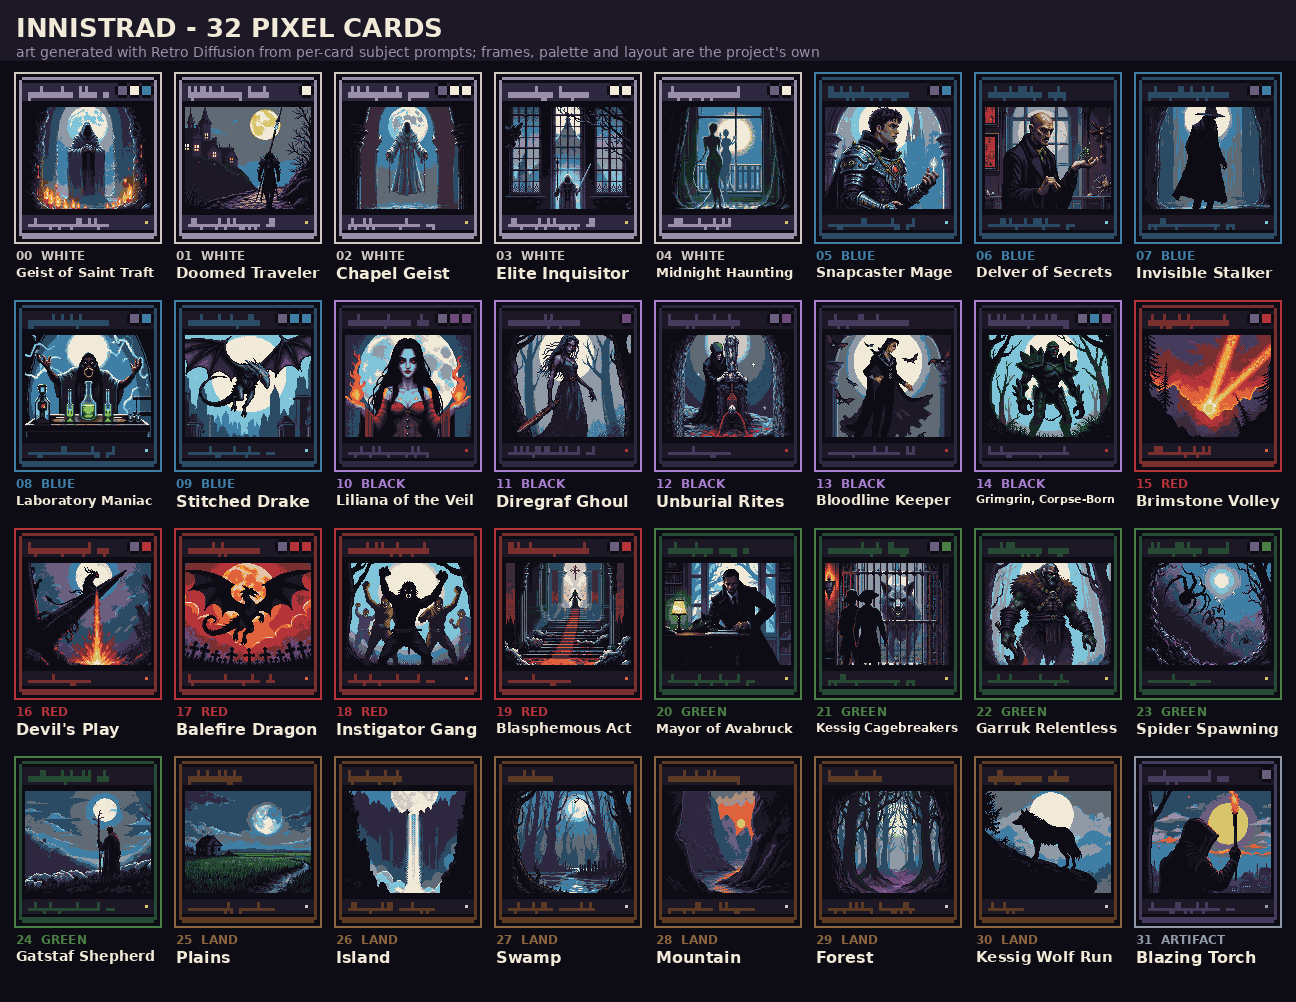
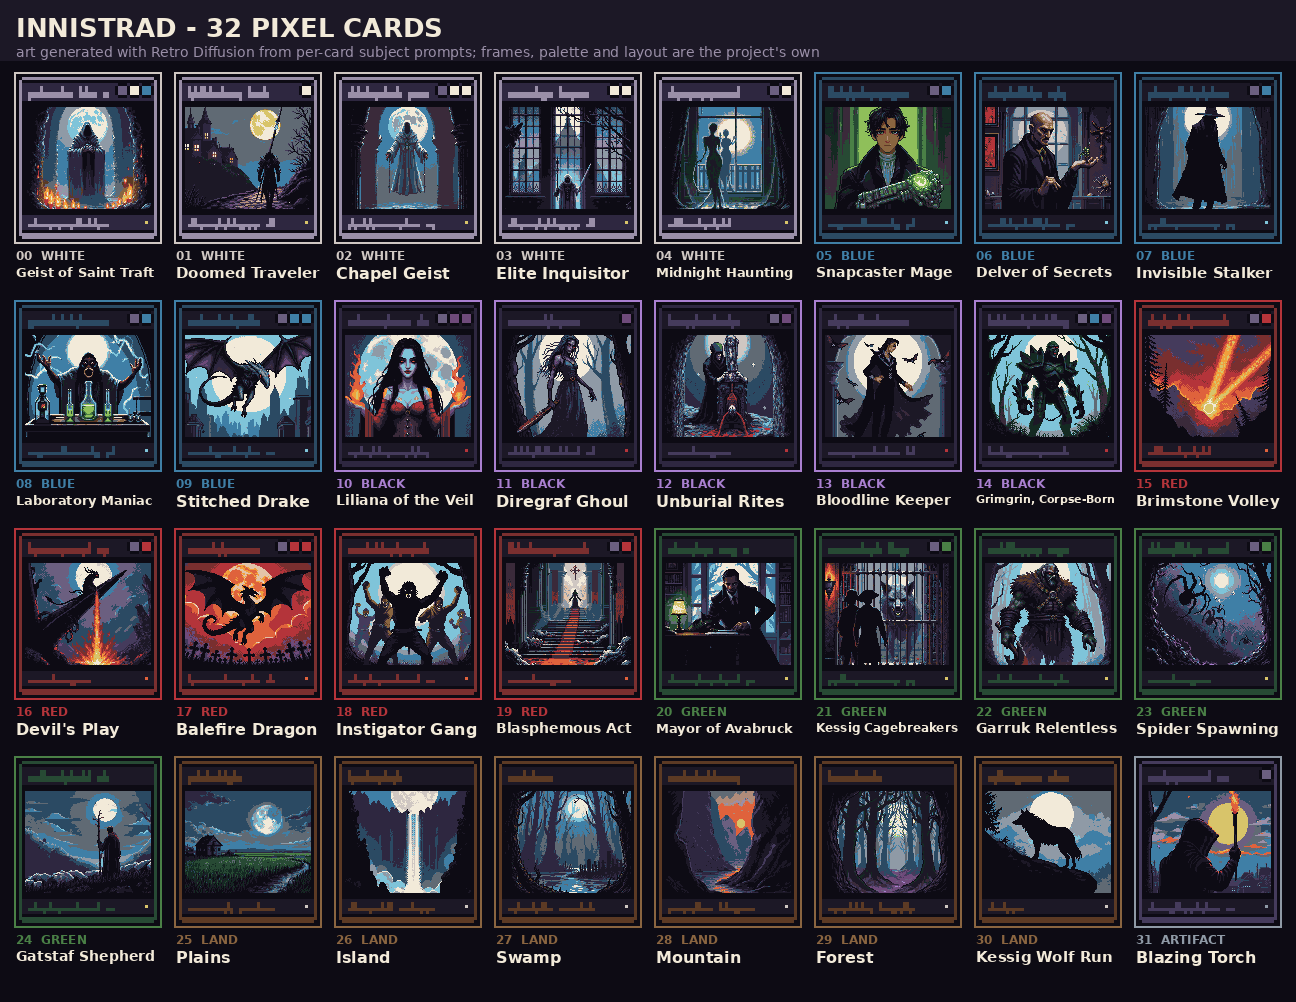
Snapcaster round four: he is not gaunt, he is Korean
The corpse drift had a simple cause I should have caught two rounds ago. I
was reading "pale" as a horror cue and prompting accordingly, when it is just
his complexion — he is an East Asian man with fair skin, and nothing about
that is meant to be unwell. "Grimy" and "filthy" were wrong in the other
direction as well: the painting is refined rather than squalid, his fittings
are polished ornate silver and his hair is neatly cut. He is a well-dressed
young professional.

So round four states plainly that he is healthy, composed, tidy and
expensively dressed, and leaves every bit of the strangeness to the machinery
clamped to his arm. That resolves it. The men in these five read as alive and
unbothered, and the apparatus carries the weirdness on its own, which is what
the source painting actually does.

Option 2 installed as the card: chest-up, a bulky mechanism clamped along the
forearm with a mint core, dark well-cut coat, calm face. Option 5 is the
close alternative and is one file copy away.

Claude-Session: https://claude.ai/code/session_013qrUMa2BJ9wz19YCvdj7TG

Changed region(s): [[0.6173, 0.0928, 0.7407, 0.2166]]

diff --git a/scripts/pixelart/rd/snapcaster4.py b/scripts/pixelart/rd/snapcaster4.py
@@ -1,0 +1,51 @@
+import os, sys
+sys.path.insert(0, os.path.dirname(os.path.abspath(__file__)))
+sys.dont_write_bytecode = True
+import variants
+
+# Round four. I had been reading "pale" as a horror cue. It is not — he is an
+# East Asian man with a fair complexion, and that is simply his skin. Worse,
+# "grimy" and "filthy" were wrong in the other direction too: the painting is
+# refined, not squalid. His gear is expensive ornate silverwork and his hair
+# is neatly cut. He is a well-dressed young professional.
+#
+# So: nothing about the MAN is strange. He is healthy, calm, tidy. All of the
+# strangeness lives in the apparatus bolted to him.
+WHO = ("a healthy well-groomed young East Asian man in his mid twenties, fair "
+       "complexion, neat short black hair, calm composed expression, clean and "
+       "expensively dressed, a young professional, NOT undead, not gaunt, not "
+       "dirty, not sickly")
+GEAR = ("ornate polished silver fittings and a well-cut black leather coat, "
+        "refined and costly")
+NEG = "painterly oil-painted, muted desaturated grey-green, NOT anime, NOT JRPG, no shining hero armour"
+BASE = ("gothic horror pixel art, Innistrad, dark stone interior, the only bright "
+        "colour is a mint-teal glow from his device, limited palette, no text. " + NEG)
+
+OPTS = [
+ ("levelled at the viewer",
+  WHO + ", " + GEAR + ", a heavy occult machine strapped the length of his forearm like a "
+  "weapon with a round mint-teal aperture at the wrist, arm raised and levelled straight at "
+  "the viewer, his other hand steadying it, unbothered. " + BASE),
+ ("chest-up, both devices legible",
+  WHO + ", " + GEAR + ", seen from the chest up, a jeweled lens rig with green gems bracketed "
+  "over his left eye, and a bulky glowing machine clamped along his forearm held across his "
+  "chest, both devices large and clearly readable. " + BASE),
+ ("adjusting the mechanism",
+  WHO + ", " + GEAR + ", looking down and turning a dial on the heavy apparatus clamped to his "
+  "own forearm, mint light spilling between its plates onto his calm face, entirely "
+  "matter-of-fact about it. " + BASE),
+ ("seated, device across the knee",
+  WHO + ", " + GEAR + ", seated on a stone bench in a dark hall with the heavy machine on his "
+  "forearm resting across his knee, mint glow at the wrist, green lens rig over one eye, "
+  "waiting, composed. " + BASE),
+ ("discharge, lit by his own machine",
+  WHO + ", " + GEAR + ", the machine on his forearm firing a lance of mint-teal light, the "
+  "flash lighting his composed face and neat hair from the side, green lens rig catching it, "
+  "coat edged in light, dark vaulted hall. " + BASE),
+]
+D = f"{os.path.dirname(os.path.abspath(__file__))}/snap4"
+os.makedirs(D, exist_ok=True)
+paths = []
+for i, (lab, p) in enumerate(OPTS):
+    out = f"{D}/opt{i+1}.png"; variants.gen(p, 55500+i*173, out); paths.append(out)
+variants.sheet("Snapcaster Mage", [[l] for l, _ in OPTS], paths, f"{D}/options.png")
